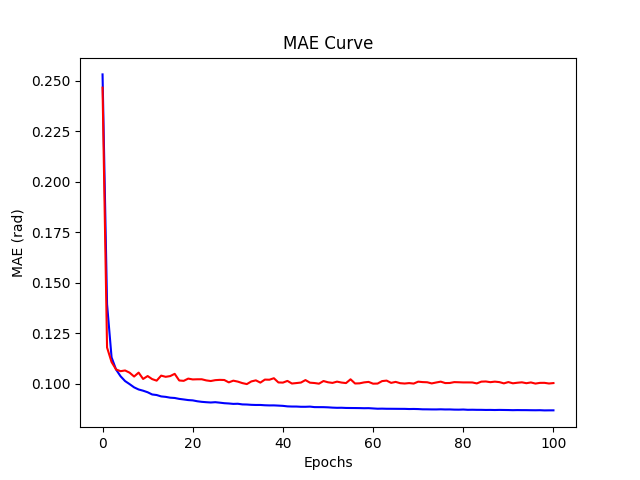
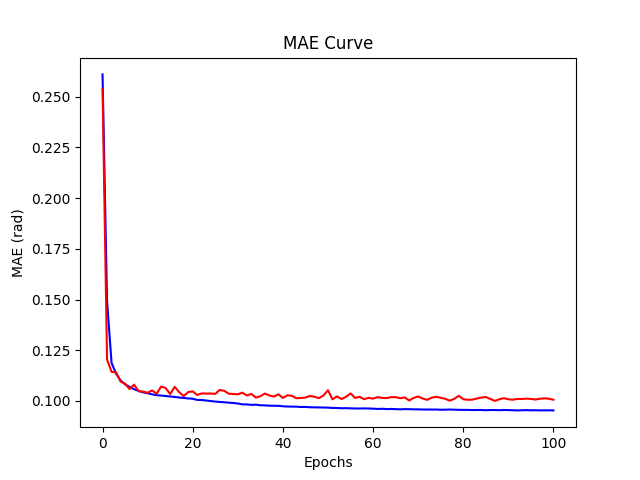
- changed training param (n_epochs=100, noise_std=0.02) - calibrated all 4 sensors that are installed with aluminum powder & grey coated gel

diff --git a/calibration/train_model.py b/calibration/train_model.py
@@ -60,7 +60,7 @@ def train_model():
         help="root directory containing sensors/<serial>/",
     )
     parser.add_argument(
-        "-ne", "--n_epochs", type=int, default=200, help="number of training epochs"
+        "-ne", "--n_epochs", type=int, default=100, help="number of training epochs"
     )
     parser.add_argument("-lr", "--lr", type=float, default=0.002, help="learning rate")
     parser.add_argument(